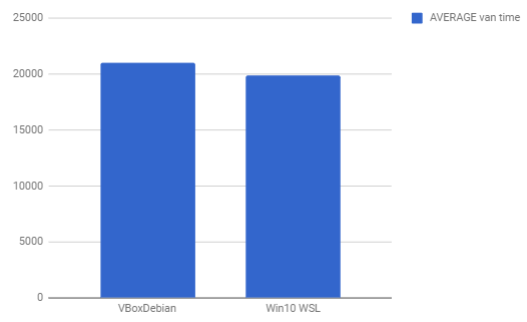
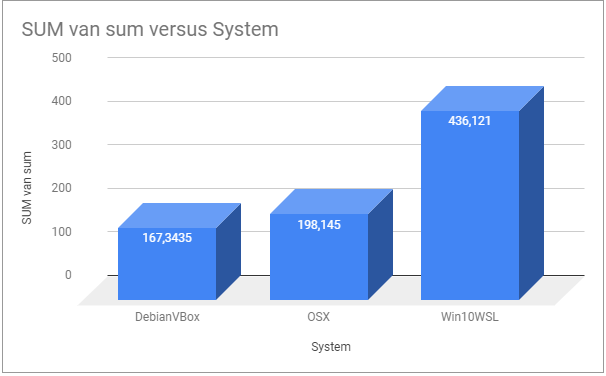
finalized benchmark

diff --git a/readme.md b/readme.md
@@ -2,7 +2,7 @@
 
 [Table of Content](#table-of-content)
 
-Last update: 08-NOV-2018 in the train from Eindhoven to Amsterdam. 
+Last update: 12-NOV-2018 in the train from Amsterdam to Eindhoven. 
 
 The objective for the exercise is two-fold;
 
@@ -18,7 +18,13 @@ What you see below is two instances of bash on WSL running; one for the MongoDB,
 
 ## Executive Summary
 
-Using only `npm start` it seems **both solutions perform practicly the same**. I still have to benchmark the performance of the application itself, as Windows still feels slow compared to the VBox Debian, and I have to compare the same on Linux-bare-metal, however I need to rerun all tests on a different box where I have full control on the harddisk. 
+System	| speed
+--- | ---
+DebianVBox	| 100,00%
+OSX	| 118,41%
+Win10WSL	| 260,61%
+
+It seems **there is a significant delay** on Windows (2,6 times slower), even when using WSL. It is 2,6 times slower than Debian, let alone the problems you have with newline characters and different key bindings. This means **everything** runs 2,6 times slower; saving code, git work, opening VSC, beautifying, linting, testing, hitting your web server, etc. 
 
 # Table of Content
 - [Benchmark](#benchmark)
@@ -38,7 +44,18 @@ Using only `npm start` it seems **both solutions perform practicly the same**. I
 
 [Table of Content](#table-of-content)
 
-**What am I testing?** - As we, as web developers, use webpack very often; I just tried to run npm start on my project [https://github.com/kristelijn/lean-mean](https://github.com/kristelijn/lean-mean) both on my VBox Debian install as the configuration below simultaniously, captured 10 runs each and calculated the average.
+**What am I testing?** - As we, as web developers, use webpack very often; I just tried to run npm start on my project [https://github.com/kristelijn/lean-mean](https://github.com/kristelijn/lean-mean) both on my VBox Debian install as the configuration below simultaniously, captured some runs each and calculated the average.
+
+**How am I testing?** - I just take the time from `npm clean-install`. I have a script in a package.json `rimraf .next package-lock.json node_modules && npm cache verify && npm install`. As it does a lot of stuff it is a good indicator on benchmarking.
+```
+$ time npm clean-install
+> ...
+> ... 
+
+real    0m36.305s <<<<<!!!
+user    0m26.344s
+sys     0m16.156s
+```
 
 ![benchmark results](img/benchmark.png)
 
@@ -132,12 +149,17 @@ Win10 WSL	|	18799
 
 Result from [https://gist.github.com/noygal/6b7b1796a92d70e24e35f94b53722219](https://gist.github.com/noygal/6b7b1796a92d70e24e35f94b53722219), but looking at the above I can't validate them also it seems noygal uses different systems to benchmark and or it could be that the performance today seems better than in 2017.
 
-System | Performance 
+System | command | Performance 
 --- | --- 
-Mac Mini 2012 Core i5 10GB RAM | 217.6 sec 
-Windows WSL | 335 sec
-Linux Mint Bare Metal | 182.4 sec
-VirtualBox | 124 sec
+System |	command |	sum (s)
+DebianVBox	| time npm run clean-install	| 176,406
+DebianVBox	| time npm run clean-install	| 158,281
+DebianVBox	| time npm test	| 430,484
+Win10WSL	| time npm run clean-install	| 514,568
+Win10WSL	| time npm run clean-install	| 378,898
+Win10WSL	| time npm outdated	| 38,497
+Win10WSL	| time npm run clean-install	| 414,897
+OSX	| time npm run clean-install	| 198,145
 
 ## Versions
 
